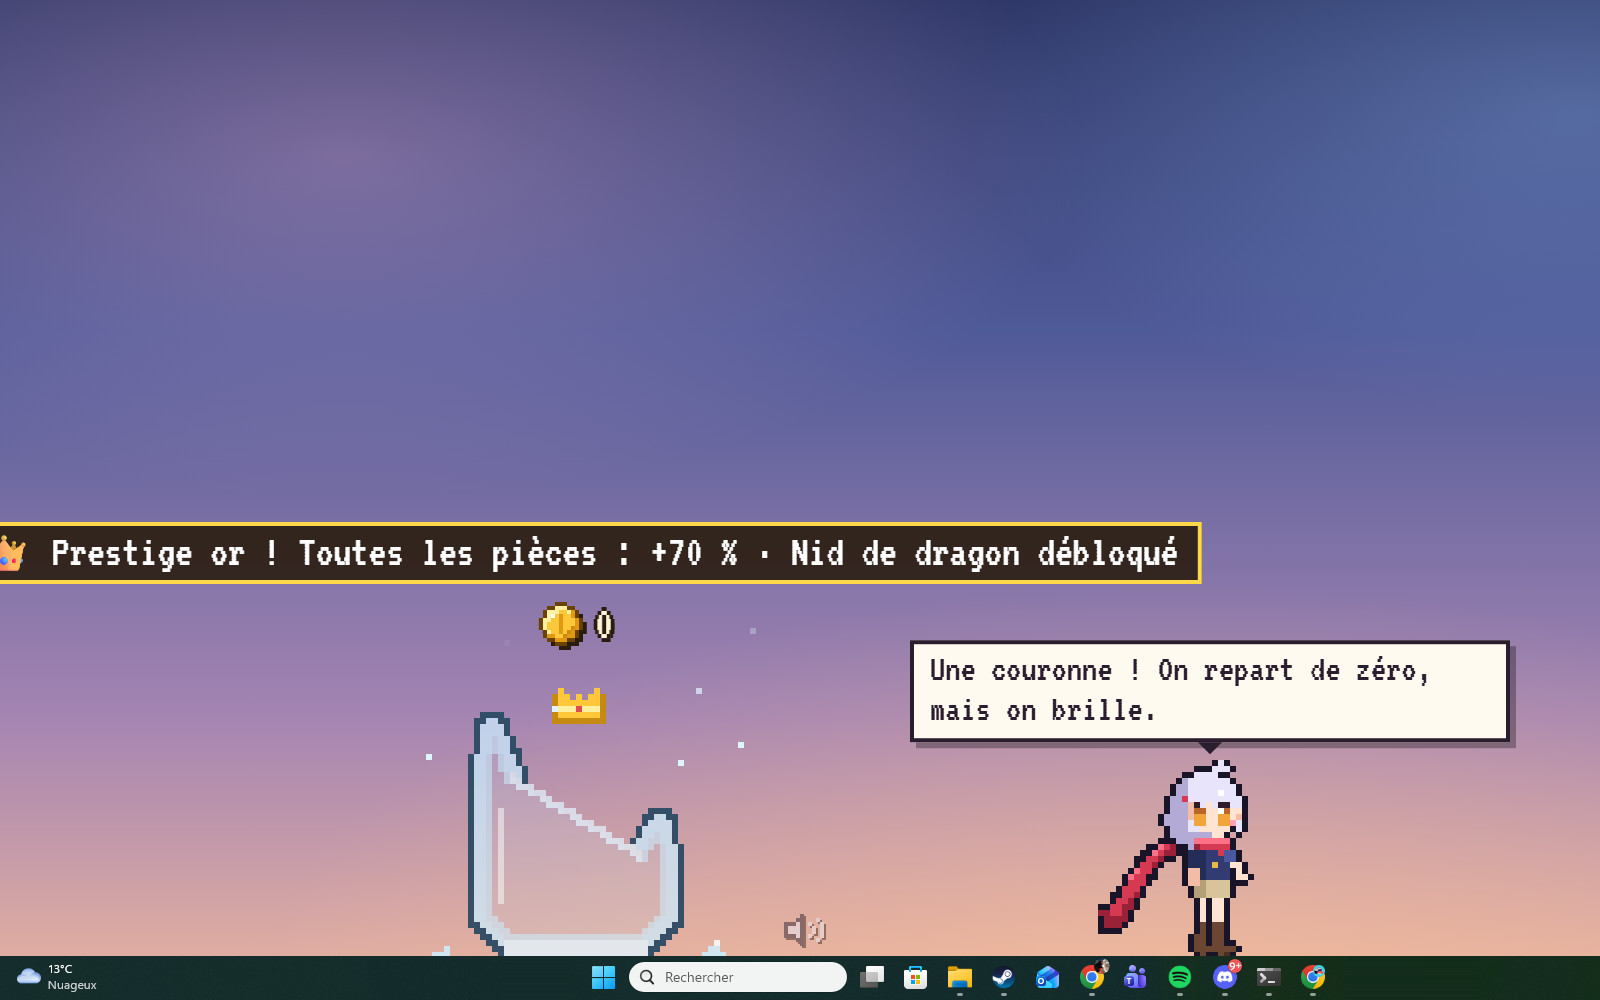
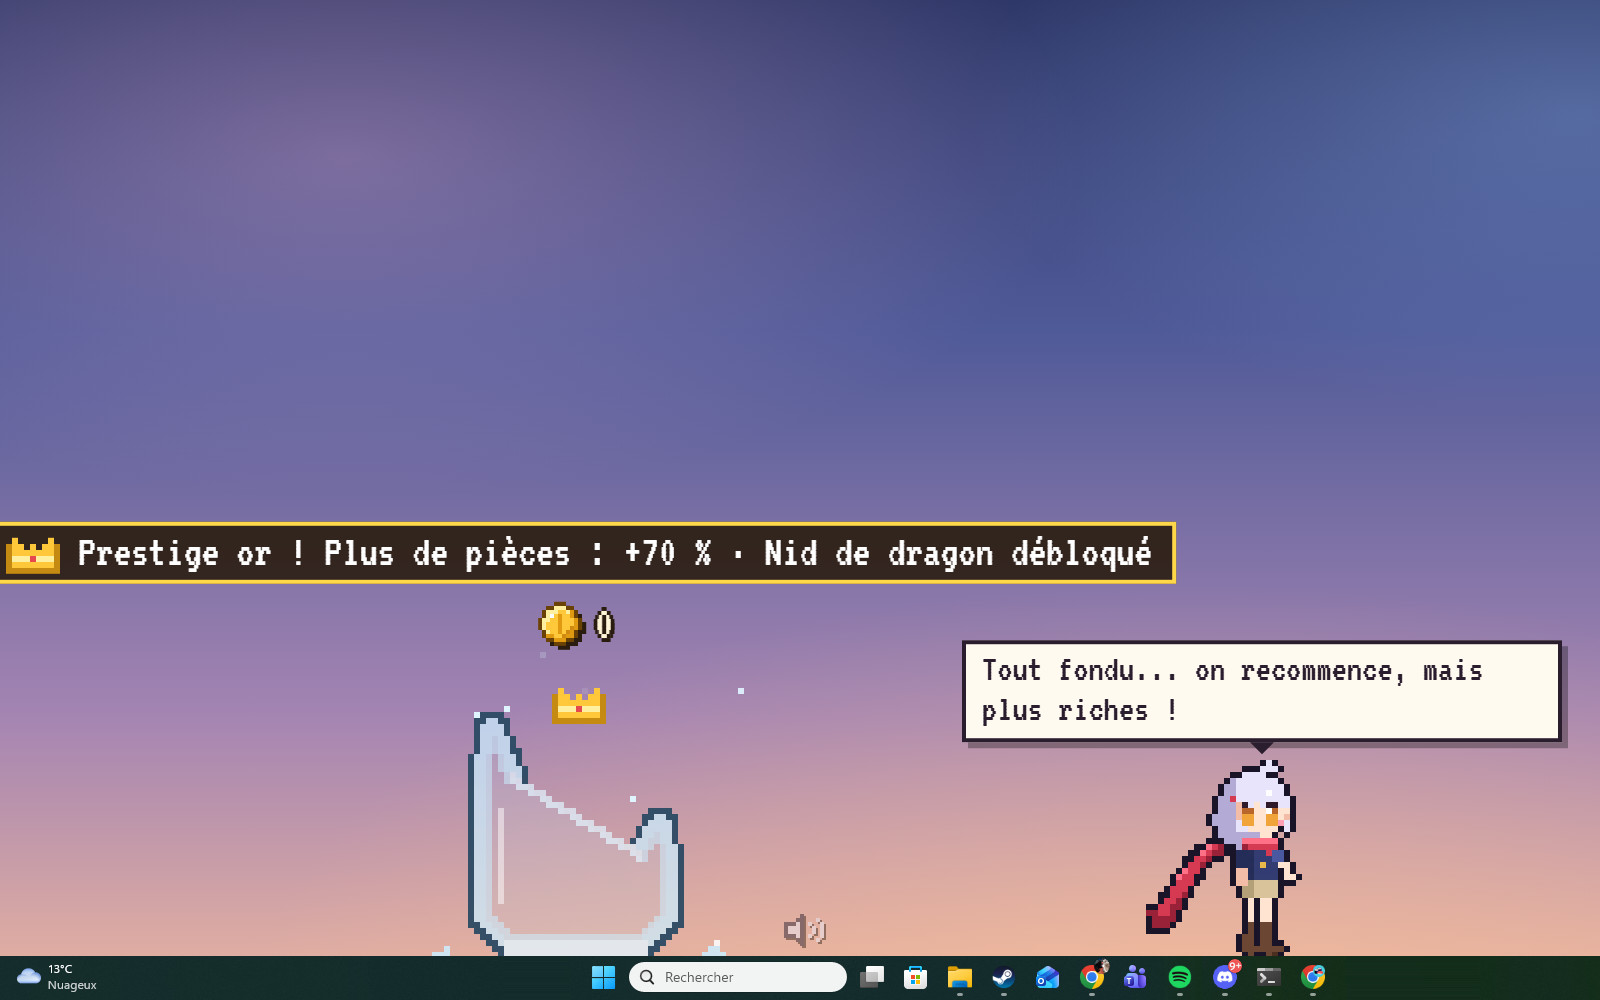
Lumi's Jar : prestige a jour (plus de pieces par frappe)

diff --git a/index.html b/index.html
@@ -2059,7 +2059,7 @@ footer .tyt span { color: var(--red); }
         <div class="role-title"><h4>Les systèmes</h4></div>
         <div class="classes classes--2">
           <div class="class-card"><h5>Contenants</h5><span class="kind">15 paliers</span><p>Chacun a son pouvoir : le chaudron transmute, le mimic dévore l'or, le Graal encaisse seul, le nid de dragon crache du feu.</p></div>
-          <div class="class-card"><h5>Prestige &amp; fin</h5><span class="kind">4 couronnes</span><p>On fond le trésor pour monter de palier : bronze, argent, or, puis la couronne cosmique, et chaque palier fait valoir toutes les pièces plus cher. Jusqu'au trou noir et au choix final : libérer Lumi ou rester avec elle.</p></div>
+          <div class="class-card"><h5>Prestige &amp; fin</h5><span class="kind">4 couronnes</span><p>On fond le trésor pour monter de palier : bronze, argent, or, puis la couronne cosmique, et chaque palier fait tomber plus de pièces à chaque frappe. Jusqu'au trou noir et au choix final : libérer Lumi ou rester avec elle.</p></div>
         </div>
       </div>
       <div class="role-wrap">
@@ -2070,7 +2070,7 @@ footer .tyt span { color: var(--red); }
             <img src="assets/lumi-seisme.jpg" data-src-en="assets/lumi-seisme-en.jpg" alt="Un séisme fait sauter les pièces hors du seau" loading="lazy">
             <img src="assets/lumi-dragon.jpg" data-src-en="assets/lumi-dragon-en.jpg" alt="Le nid de dragon crache du feu et change les pièces en or" loading="lazy">
             <img src="assets/lumi-marchand.jpg" data-src-en="assets/lumi-marchand-en.jpg" alt="Le marchand ambulant ouvre sa boutique à côté du coffre mimic" loading="lazy">
-            <img src="assets/lumi-prestige.jpg" data-src-en="assets/lumi-prestige-en.jpg" alt="Le prestige or : une couronne et toutes les pièces valent plus" loading="lazy">
+            <img src="assets/lumi-prestige.jpg" data-src-en="assets/lumi-prestige-en.jpg" alt="Le prestige or : une couronne, et plus de pièces à chaque frappe" loading="lazy">
           </div>
       </div>
       <div class="role-wrap">
@@ -2670,7 +2670,7 @@ footer .tyt span { color: var(--red); }
 "AttraperLe rubis ailé à la souris, la météorite à fracasser contre un bord de l'écran, les pigeons voleurs à taper avant qu'ils n'emportent le butin, et les fourmis à écraser avant qu'elles n'emportent le bocal tout entier.": "<b>Catch<\/b>The winged ruby with the mouse, the meteorite by smashing it against the edge of the screen, the thief pigeons by clicking them before they get away with the loot, and the ants by squashing them before they carry off the whole jar.",
 "LumiElle ramasse les pièces tombées, réagit à chaque événement (elle patine sur la neige, s'accroche au bocal quand on le lui vole), dit bonjour le matin, fait la sieste quand on ne tape plus, et s'assoit sur le bocal si on l'y pose.": "<b>Lumi<\/b>She picks up fallen coins, reacts to every event (she skates on the snow, clings to the jar when it gets stolen), says good morning, naps when you stop typing, and sits on the jar if you put her there.",
 "4 couronnes": "4 crowns",
-"On fond le trésor pour monter de palier : bronze, argent, or, puis la couronne cosmique, et chaque palier fait valoir toutes les pièces plus cher. Jusqu'au trou noir et au choix final : libérer Lumi ou rester avec elle.": "You melt the treasure down to rank up: bronze, silver, gold, then the cosmic crown, and each rank makes every coin worth more. All the way to the black hole and the final choice: free Lumi or stay with her.",
+"On fond le trésor pour monter de palier : bronze, argent, or, puis la couronne cosmique, et chaque palier fait tomber plus de pièces à chaque frappe. Jusqu'au trou noir et au choix final : libérer Lumi ou rester avec elle.": "You melt the treasure down to rank up: bronze, silver, gold, then the cosmic crown, and each rank makes more coins fall with every keystroke. All the way to the black hole and the final choice: free Lumi or stay with her.",
 "Collection. Trouvailles rares, records de la partie (frappes, animaux repoussés, prestige…) et les 36 succès, chacun avec son icône en pixel art. Les secrets restent cachés jusqu'à ce qu'on les trouve.": "<b>Collection.<\/b> Rare finds, save records (keystrokes, critters fought off, prestige…) and the 36 achievements, each with its own pixel-art icon. Secret ones stay hidden until you find them.",
 "Onglet Collection : les succès, chacun avec son icône en pixel art, débloqués ou encore grisés": "Collection tab (in French): the achievements, each with its pixel-art icon, unlocked or still grayed out",
 "Règles, systèmes, captures et mon rôle": "Rules, systems, screenshots and my role",
@@ -2678,7 +2678,7 @@ footer .tyt span { color: var(--red); }
 "Des fourmis emportent le bocal sous les yeux de Lumi": "Ants carry the jar away right under Lumi's nose",
 "Pendant l'orage, Lumi se prend la foudre": "During the storm, Lumi gets struck by lightning",
 "Un séisme fait sauter les pièces hors du seau": "An earthquake shakes the coins out of the bucket",
-"Le prestige or : une couronne et toutes les pièces valent plus": "Gold prestige: a crown, and every coin is worth more",
+"Le prestige or : une couronne, et plus de pièces à chaque frappe": "Gold prestige: a crown, and more coins with every keystroke",
 "Économie & progressionPrix, paliers et prestige réglés avec un modèle qui simule le temps de jeu jusqu'à la fin, pour qu'il y ait toujours un prochain objectif en vue.": "<b>Economy &amp; progression<\/b>Prices, tiers and prestige tuned with a model that simulates playtime all the way to the ending, so there's always a next goal in sight.",
 "Le marchand ambulant ouvre sa boutique à côté du coffre mimic": "The traveling merchant opens his shop next to the mimic chest",
 "Lumi’s Jar est un idle game qui vit au-dessus de la barre des tâches : chaque frappe et chaque clic faits sur le PC font tomber une pièce dans le bocal de Lumi, une petite voyageuse tombée loin de chez elle. On encaisse, on débloque quinze contenants aux pouvoirs différents, on défend son butin contre les voleurs, et le prestige mène jusqu'au trou noir et à un choix final. Le défi de design : un jeu qui accompagne la journée sans jamais gêner.": "Lumi’s Jar is an idle game that lives above the taskbar: every keystroke and click on the PC drops a coin into the jar of Lumi, a little traveler who fell far from home. You cash in, unlock fifteen containers with different powers, defend your loot from thieves, and prestige all the way to the black hole and a final choice. The design challenge: a game that keeps you company all day without ever getting in the way.",
